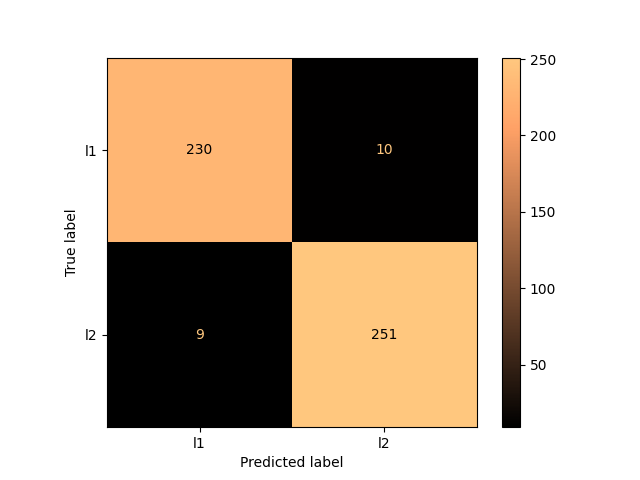
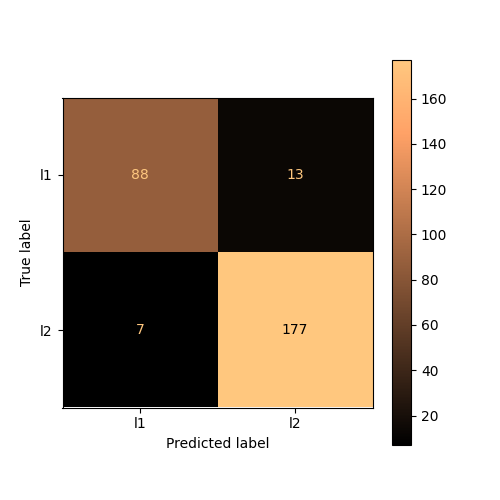
precision recall curve added

diff --git a/src/analyzer.py b/src/analyzer.py
@@ -9,15 +9,16 @@ from matplotlib import pyplot as plt
 import numpy as np
 
 from sklearn.metrics import (
-    confusion_matrix,
-    ConfusionMatrixDisplay,
-    roc_curve,
-    auc,
-    RocCurveDisplay,
     accuracy_score,
     f1_score,
     precision_score,
-    recall_score
+    recall_score,
+    ConfusionMatrixDisplay,
+    confusion_matrix,
+    RocCurveDisplay,
+    roc_curve,
+    auc,
+    PrecisionRecallDisplay
 )
 
 class Analyzer:
@@ -42,7 +43,7 @@ class Analyzer:
         if not os.path.exists(f"{self.STABLE_ROOT_DIR}/.AI_analyzer/comparisons"):
             os.system(f"mkdir   {self.STABLE_ROOT_DIR}/.AI_analyzer/comparisons")
         if not overwrite and os.path.exists(f"{self.STABLE_ROOT_DIR}/.AI_analyzer/comparisons/{model_name1}-{model_name2}.md"):
-            raise Exception(f"Error: Trying to overwrite comparison {model_name1}-{model_name2}, but overwrite parameter is set to false.")
+            raise Exception(f"Error: Trying to overwrite comparison \"{model_name1}-{model_name2}\", but overwrite parameter is set to false.")
 
         connectMD.MDConnection(
             target_class=self,
@@ -62,9 +63,11 @@ class Analyzer:
         labels: list[str],
         model_name: str,
         plot_metrics: bool = False,
+        metrics_size: tuple[int, int] = (8, 8),
         include_scores: bool = True,
         include_confusion_matrix: bool = True,
         include_roc_curve: bool = True,
+        include_precision_recall_curve: bool = True,
         overwrite: bool = False # When enabled, it overwrites the model analyzation folder if it exists
     ):
         self.MODEL_NAME = model_name;
@@ -72,14 +75,15 @@ class Analyzer:
 
         self.__check_validility(model_name, overwrite)
         if include_scores: self.__write_scores(y_true, y_pred, plot_metrics)
-        if include_confusion_matrix: self.__write_confusion_matrix(y_true, y_pred, labels, plot_metrics)
-        if include_roc_curve: self.__write_roc_curve(y_true, y_pred, plot_metrics)
+        if include_confusion_matrix: self.__write_confusion_matrix(y_true, y_pred, labels, plot_metrics, metrics_size)
+        if include_roc_curve: self.__write_roc_curve(y_true, y_pred, plot_metrics, metrics_size)
+        if include_precision_recall_curve: self.__write_precision_recall_curve(y_true, y_pred, plot_metrics, metrics_size)
 
         if not plot_metrics: plt.close()
 
         connectMD.MDConnection(
             target_class=self,
-            target_members=connectMD.getmembers(self, locals()),
+            target_members=connectMD.getmembers(self, locals(), "params"),
             read_file=f"{self.STABLE_ROOT_DIR}/templates/overview.md",
             write_file=f"{self.STABLE_ROOT_DIR}/.AI_analyzer/{self.MODEL_NAME}/result.md",
             connect=True
@@ -106,11 +110,38 @@ class Analyzer:
     ##########################
     ## METRICS              ##
     ##########################
-    def __write_roc_curve(self, y_true: np.ndarray | list, y_pred: np.ndarray | list, plot: bool) -> None:
+    def __write_precision_recall_curve(
+        self,
+        y_true: np.ndarray | list,
+        y_pred: np.ndarray | list,
+        plot: bool,
+        metrics_size: tuple[int, int]
+    ) -> None:
+        _, ax = plt.subplots(figsize=metrics_size)
+        display = PrecisionRecallDisplay.from_predictions(y_true, y_pred, name="LinearSVC", plot_chance_level=True, ax=ax)
+        _ = display.ax_.set_title("2-class Precision-Recall curve")
+
+        plt.savefig(f"{self.STABLE_ROOT_DIR}/.AI_analyzer/{self.MODEL_NAME}/precision-recall-curve.png")
+        if not plot: plt.close()
+
+        self.__dump_json({
+            "precision-recall-curve": { }
+        })
+
+    def __write_roc_curve(
+        self,
+        y_true: np.ndarray | list,
+        y_pred: np.ndarray | list,
+        plot: bool,
+        metrics_size: tuple[int, int]
+    ) -> None:
         fpr, tpr, _ = roc_curve(y_true, y_pred)
         roc_auc = auc(fpr, tpr)
-        RocCurveDisplay(fpr=fpr, tpr=tpr, roc_auc=roc_auc).plot()
+
+        _, ax = plt.subplots(figsize=metrics_size)
+        RocCurveDisplay(fpr=fpr, tpr=tpr, roc_auc=roc_auc).plot(ax=ax)
         plt.savefig(f"{self.STABLE_ROOT_DIR}/.AI_analyzer/{self.MODEL_NAME}/roc-curve.png")
+
         if not plot: plt.close()
 
         self.__dump_json({
@@ -121,14 +152,13 @@ class Analyzer:
             }
         })
 
-    def __write_confusion_matrix(self, y_true: np.ndarray | list, y_pred: np.ndarray | list, labels: list[str], plot: bool) -> None:
+    def __write_confusion_matrix(self, y_true: np.ndarray | list, y_pred: np.ndarray | list, labels: list[str], plot: bool, metrics_size: tuple[int, int]) -> None:
         conf_matrix = confusion_matrix(y_true, y_pred)
-        ConfusionMatrixDisplay(
-            confusion_matrix = conf_matrix,
-            display_labels   = labels
-        ).plot(cmap="copper")
 
+        _, ax = plt.subplots(figsize=metrics_size)
+        ConfusionMatrixDisplay(confusion_matrix = conf_matrix, display_labels = labels).plot(cmap="copper", ax=ax)
         plt.savefig(f"{self.STABLE_ROOT_DIR}/.AI_analyzer/{self.MODEL_NAME}/confusion-matrix.png") # semicolon here suppresses it from being shown
+
         if not plot: plt.close()
 
         # conf_matrix[x][y] is a np.float64, therefore the float(...)

diff --git a/templates/comparison.md b/templates/comparison.md
@@ -4,9 +4,10 @@ import os
 model_name1 = params["model_name1"]
 model_name2 = params["model_name2"] 
 
-iscores = self.__data_exists("scores", model_name1, model_name2)
-icm     = self.__data_exists("confusion-matrix", model_name1, model_name2)
-iroc    = self.__data_exists("roc-curve", model_name1, model_name2)
+iscores = self.__data_exists("scores",                  model_name1, model_name2)
+icm     = self.__data_exists("confusion-matrix",        model_name1, model_name2)
+iroc    = self.__data_exists("roc-curve",               model_name1, model_name2)
+iprc    = self.__data_exists("precision-recall-curve",  model_name1, model_name2)
 >}
 
 # Model Comparison: {{ model_name1 }} and {{ model_name2 }} 
@@ -14,6 +15,7 @@ iroc    = self.__data_exists("roc-curve", model_name1, model_name2)
 {% if iscores %} - [Score](##Score-Comparison) {% endif %}
 {% if icm %} - [Confusion Matrix Comparison](##Confusion-Matrix-Comparison) {% endif %}
 {% if iroc %} - [ROC Curve Comparison](##ROC-Curve-Comparison) {% endif %}
+{% if iprc %} - [Precision Recall Curve Comparison](##Precision-Recall-Curve-Comparison) {% endif %}
 
 {% if iscores %}
 
@@ -47,5 +49,14 @@ Model {{ model_name1 }}                                                      | M
 Model {{ model_name1 }}                                                      | Model {{ model_name2 }}
 :----------------------------------------------------------------------:|:--------------------------------------------------------------:
 ![]({{ self.ROOT_DIR }}/.AI_analyzer/{{ model_name1 }}/roc-curve.png) | ![]({{ self.ROOT_DIR }}/.AI_analyzer/{{ model_name2 }}/roc-curve.png)
+
+{% endif %}
+
+{% if iprc %}
+
+## Precision Recall Curve Comparison
+Model {{ model_name1 }}                                                      | Model {{ model_name2 }}
+:----------------------------------------------------------------------:|:--------------------------------------------------------------:
+![]({{ self.ROOT_DIR }}/.AI_analyzer/{{ model_name1 }}/precision-recall-curve.png) | ![]({{ self.ROOT_DIR }}/.AI_analyzer/{{ model_name2 }}/precision-recall-curve.png)
 
 {% endif %}

diff --git a/.AI_analyzer/comparisons/1.0-1.1.md b/.AI_analyzer/comparisons/1.0-1.1.md
@@ -4,17 +4,18 @@
  - [Score](##Score-Comparison) 
  - [Confusion Matrix Comparison](##Confusion-Matrix-Comparison) 
  - [ROC Curve Comparison](##ROC-Curve-Comparison) 
+ - [Precision Recall Curve Comparison](##Precision-Recall-Curve-Comparison) 
 
 
 
 
 ## Score Comparison
-| Type      | Score 1.0          | Score 1.1          | Offset                                              |
+| Type      | Score 1.0          | Score 1.1          | Offset                                    |
 |-----------|-----------------------------|-----------------------------|-----------------------------------------------------|
-| Accuracy  | 0.962 | 0.962 | 0.0 |
-| Precision | 0.962 | 0.962 | 0.0 |
-| Recall    | 0.965 | 0.965 | 0.0 |
-| F1-Score  | 0.964 | 0.964 | 0.0 |
+| Accuracy  | 0.93 | 0.93 | 0.0 |
+| Precision | 0.932 | 0.932 | 0.0 |
+| Recall    | 0.962 | 0.962 | 0.0 |
+| F1-Score  | 0.947 | 0.947 | 0.0 |
 
 
 
@@ -33,5 +34,14 @@ Model 1.0                                                      | Model 1.1
 Model 1.0                                                      | Model 1.1
 :----------------------------------------------------------------------:|:--------------------------------------------------------------:
 ![](../../.AI_analyzer/1.0/roc-curve.png) | ![](../../.AI_analyzer/1.1/roc-curve.png)
+
+
+
+
+
+## Precision Recall Curve Comparison
+Model 1.0                                                      | Model 1.1
+:----------------------------------------------------------------------:|:--------------------------------------------------------------:
+![](../../.AI_analyzer/1.0/precision-recall-curve.png) | ![](../../.AI_analyzer/1.1/precision-recall-curve.png)
 
 

diff --git a/templates/overview.md b/templates/overview.md
@@ -3,6 +3,7 @@
 {% if params["include_scores"] %} - [Score](##Score) {% endif %}
 {% if params["include_confusion_matrix"] %} - [Confusion Matrix](##Confusion-Matrix) {% endif %}
 {% if params["include_roc_curve"] %} - [ROC Curve](##ROC-Curve) {% endif %}
+{% if params["include_precision_recall_curve"] %} - [Precision Recall Curve](##Precision-Recall-Curve) {% endif %}
 
 {% if params["include_scores"] %}
 ## Score
@@ -23,4 +24,9 @@
 {% if params["include_roc_curve"] %}
 ## ROC Curve
 ![ROC Curve]({{ self.ROOT_DIR }}/.AI_analyzer/{{ self.MODEL_NAME }}/roc-curve.png)
+{% endif %}
+
+{% if params["include_precision_recall_curve"] %}
+## Precision Recall Curve
+![Precision Recall Curve]({{ self.ROOT_DIR }}/.AI_analyzer/{{ self.MODEL_NAME }}/precision-recall-curve.png)
 {% endif %}

diff --git a/.AI_analyzer/1.0/result.md b/.AI_analyzer/1.0/result.md
@@ -3,15 +3,16 @@
  - [Score](##Score) 
  - [Confusion Matrix](##Confusion-Matrix) 
  - [ROC Curve](##ROC-Curve) 
+ - [Precision Recall Curve](##Precision-Recall-Curve) 
 
 
 ## Score
 | Type      | Score                         |
 |-----------|-------------------------------|
-| Accuracy  |  0.962    |
-| Precision |  0.962    |
-| Recall    |  0.965    |
-| F1-Score  |  0.964    |
+| Accuracy  |  0.93    |
+| Precision |  0.932    |
+| Recall    |  0.962    |
+| F1-Score  |  0.947    |
 
 
 
@@ -22,4 +23,9 @@
 
 ## ROC Curve
 ![ROC Curve](../../.AI_analyzer/1.0/roc-curve.png)
+
+
+
+## Precision Recall Curve
+![Precision Recall Curve](../../.AI_analyzer/1.0/precision-recall-curve.png)
 

diff --git a/.AI_analyzer/1.1/result.md b/.AI_analyzer/1.1/result.md
@@ -3,15 +3,16 @@
  - [Score](##Score) 
  - [Confusion Matrix](##Confusion-Matrix) 
  - [ROC Curve](##ROC-Curve) 
+ - [Precision Recall Curve](##Precision-Recall-Curve) 
 
 
 ## Score
 | Type      | Score                         |
 |-----------|-------------------------------|
-| Accuracy  |  0.962    |
-| Precision |  0.962    |
-| Recall    |  0.965    |
-| F1-Score  |  0.964    |
+| Accuracy  |  0.93    |
+| Precision |  0.932    |
+| Recall    |  0.962    |
+| F1-Score  |  0.947    |
 
 
 
@@ -22,4 +23,9 @@
 
 ## ROC Curve
 ![ROC Curve](../../.AI_analyzer/1.1/roc-curve.png)
+
+
+
+## Precision Recall Curve
+![Precision Recall Curve](../../.AI_analyzer/1.1/precision-recall-curve.png)
 
